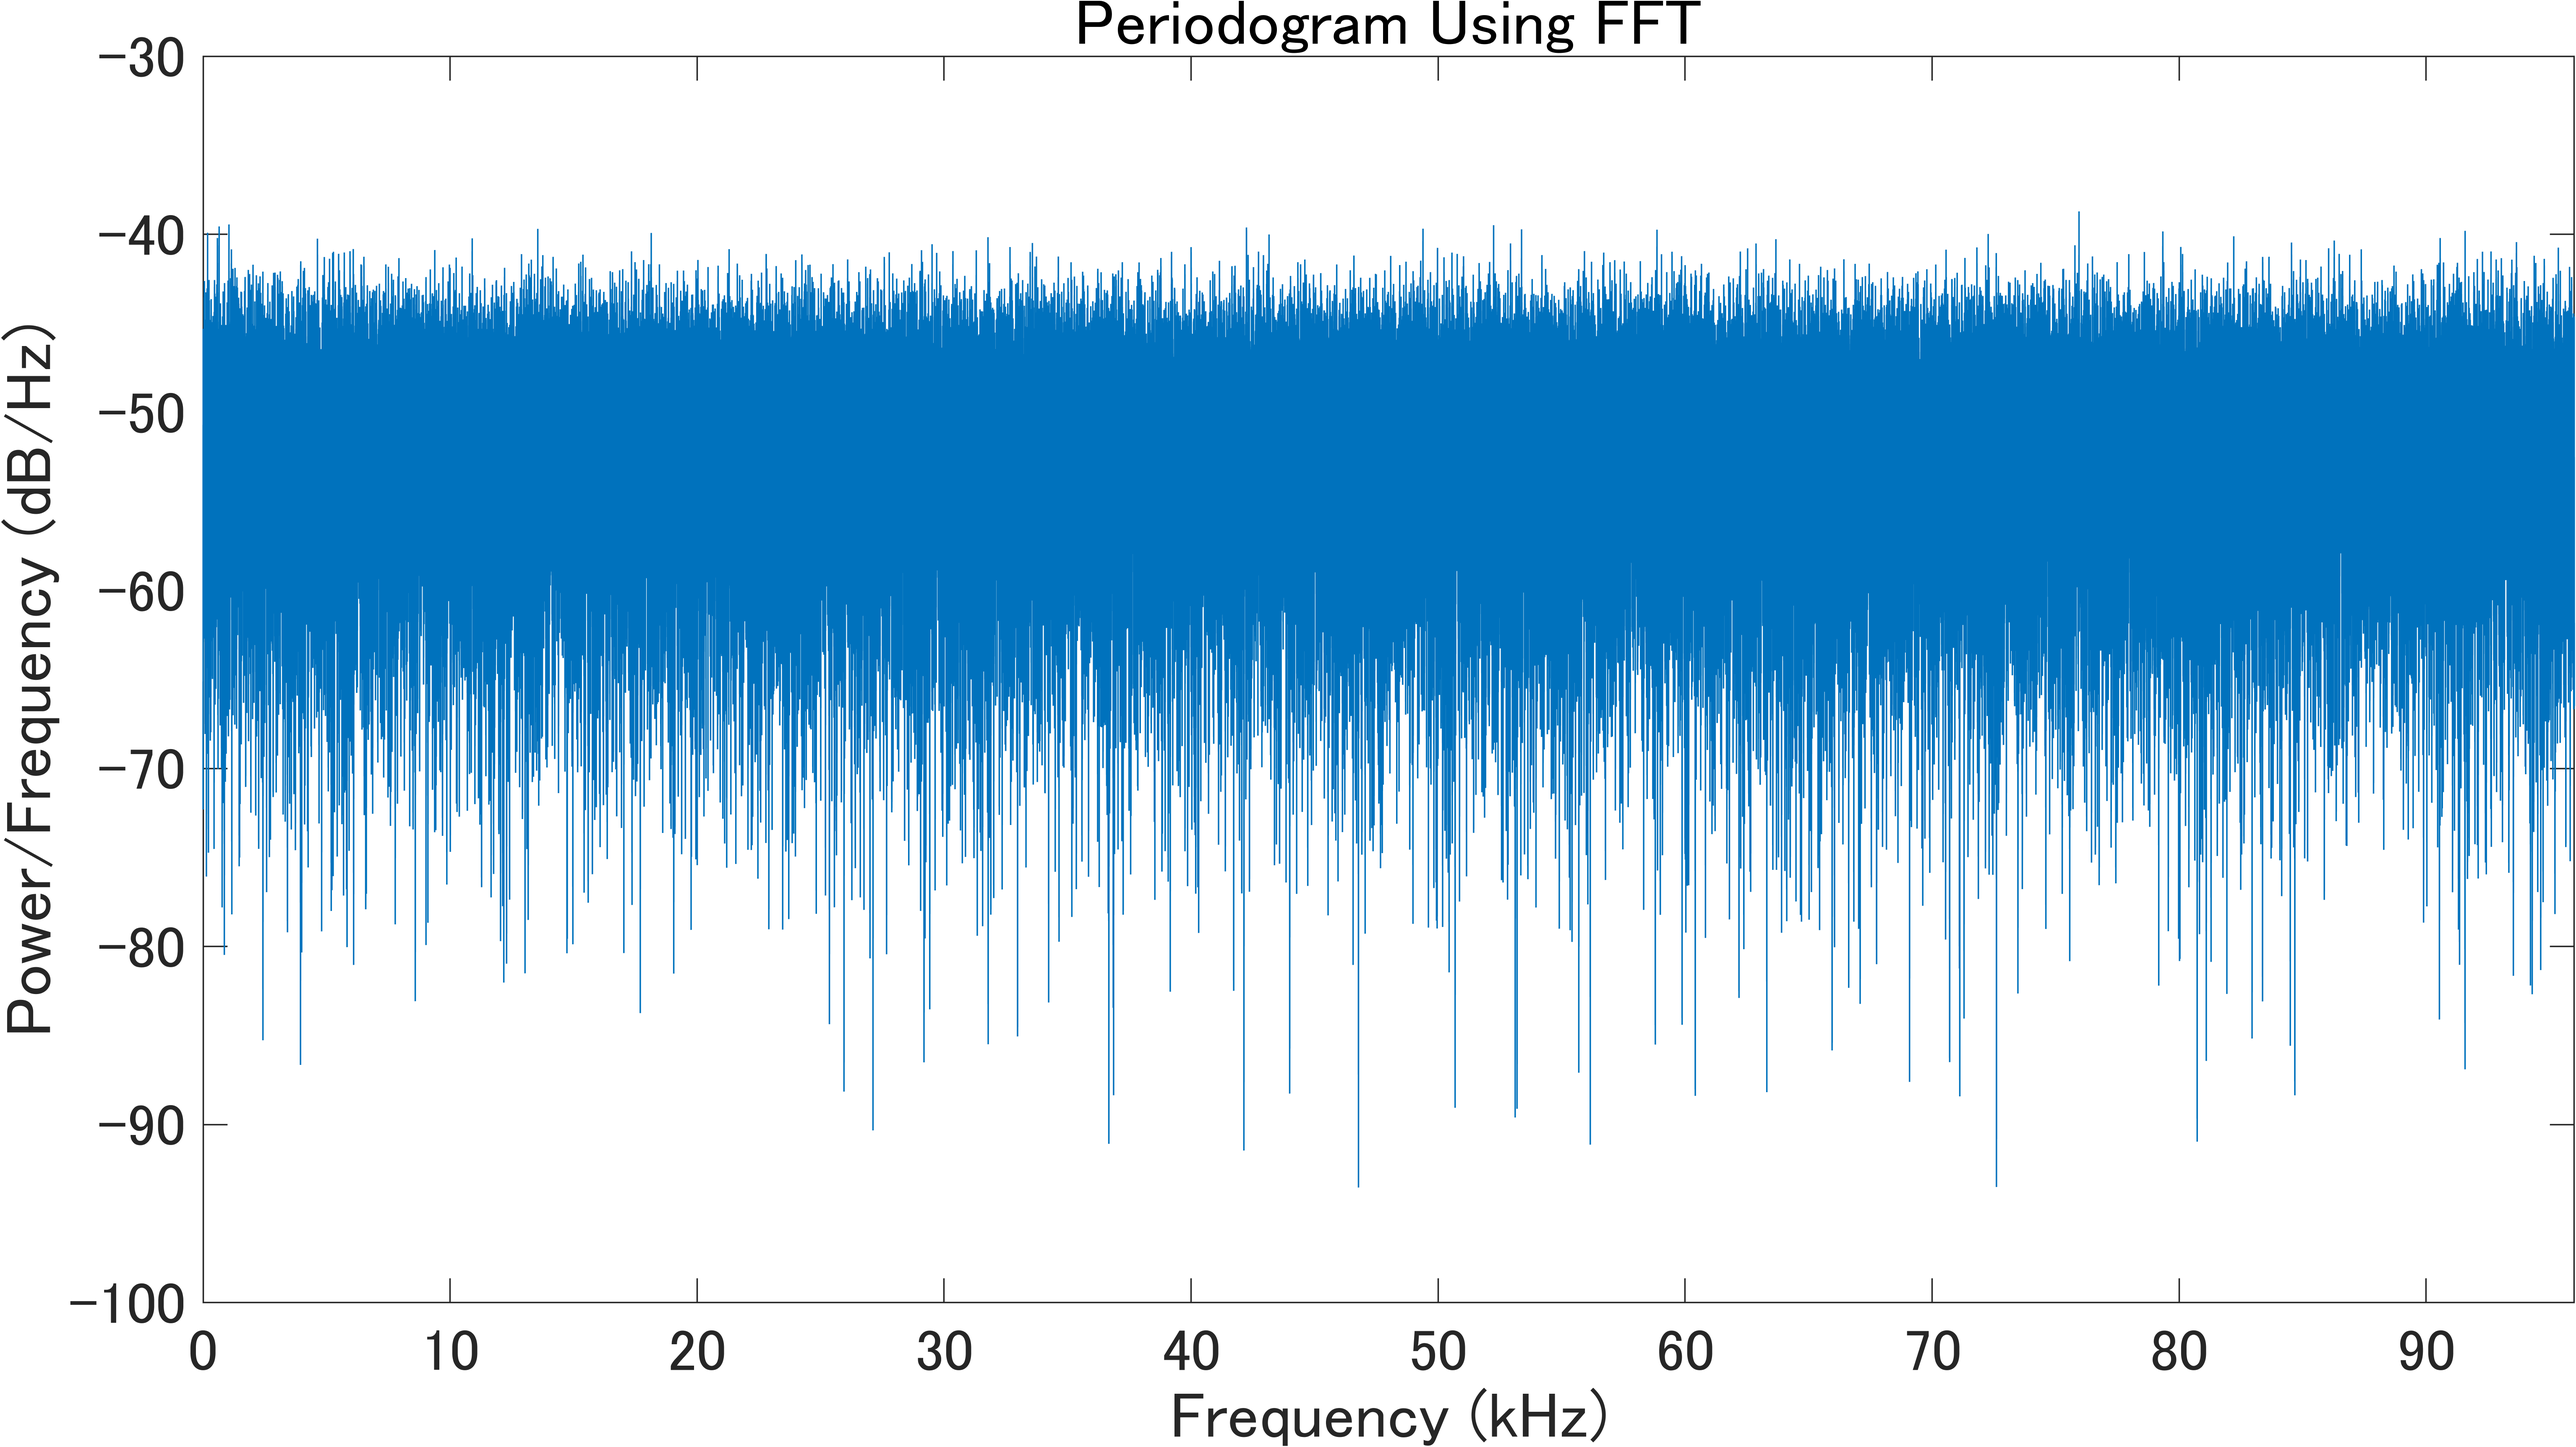
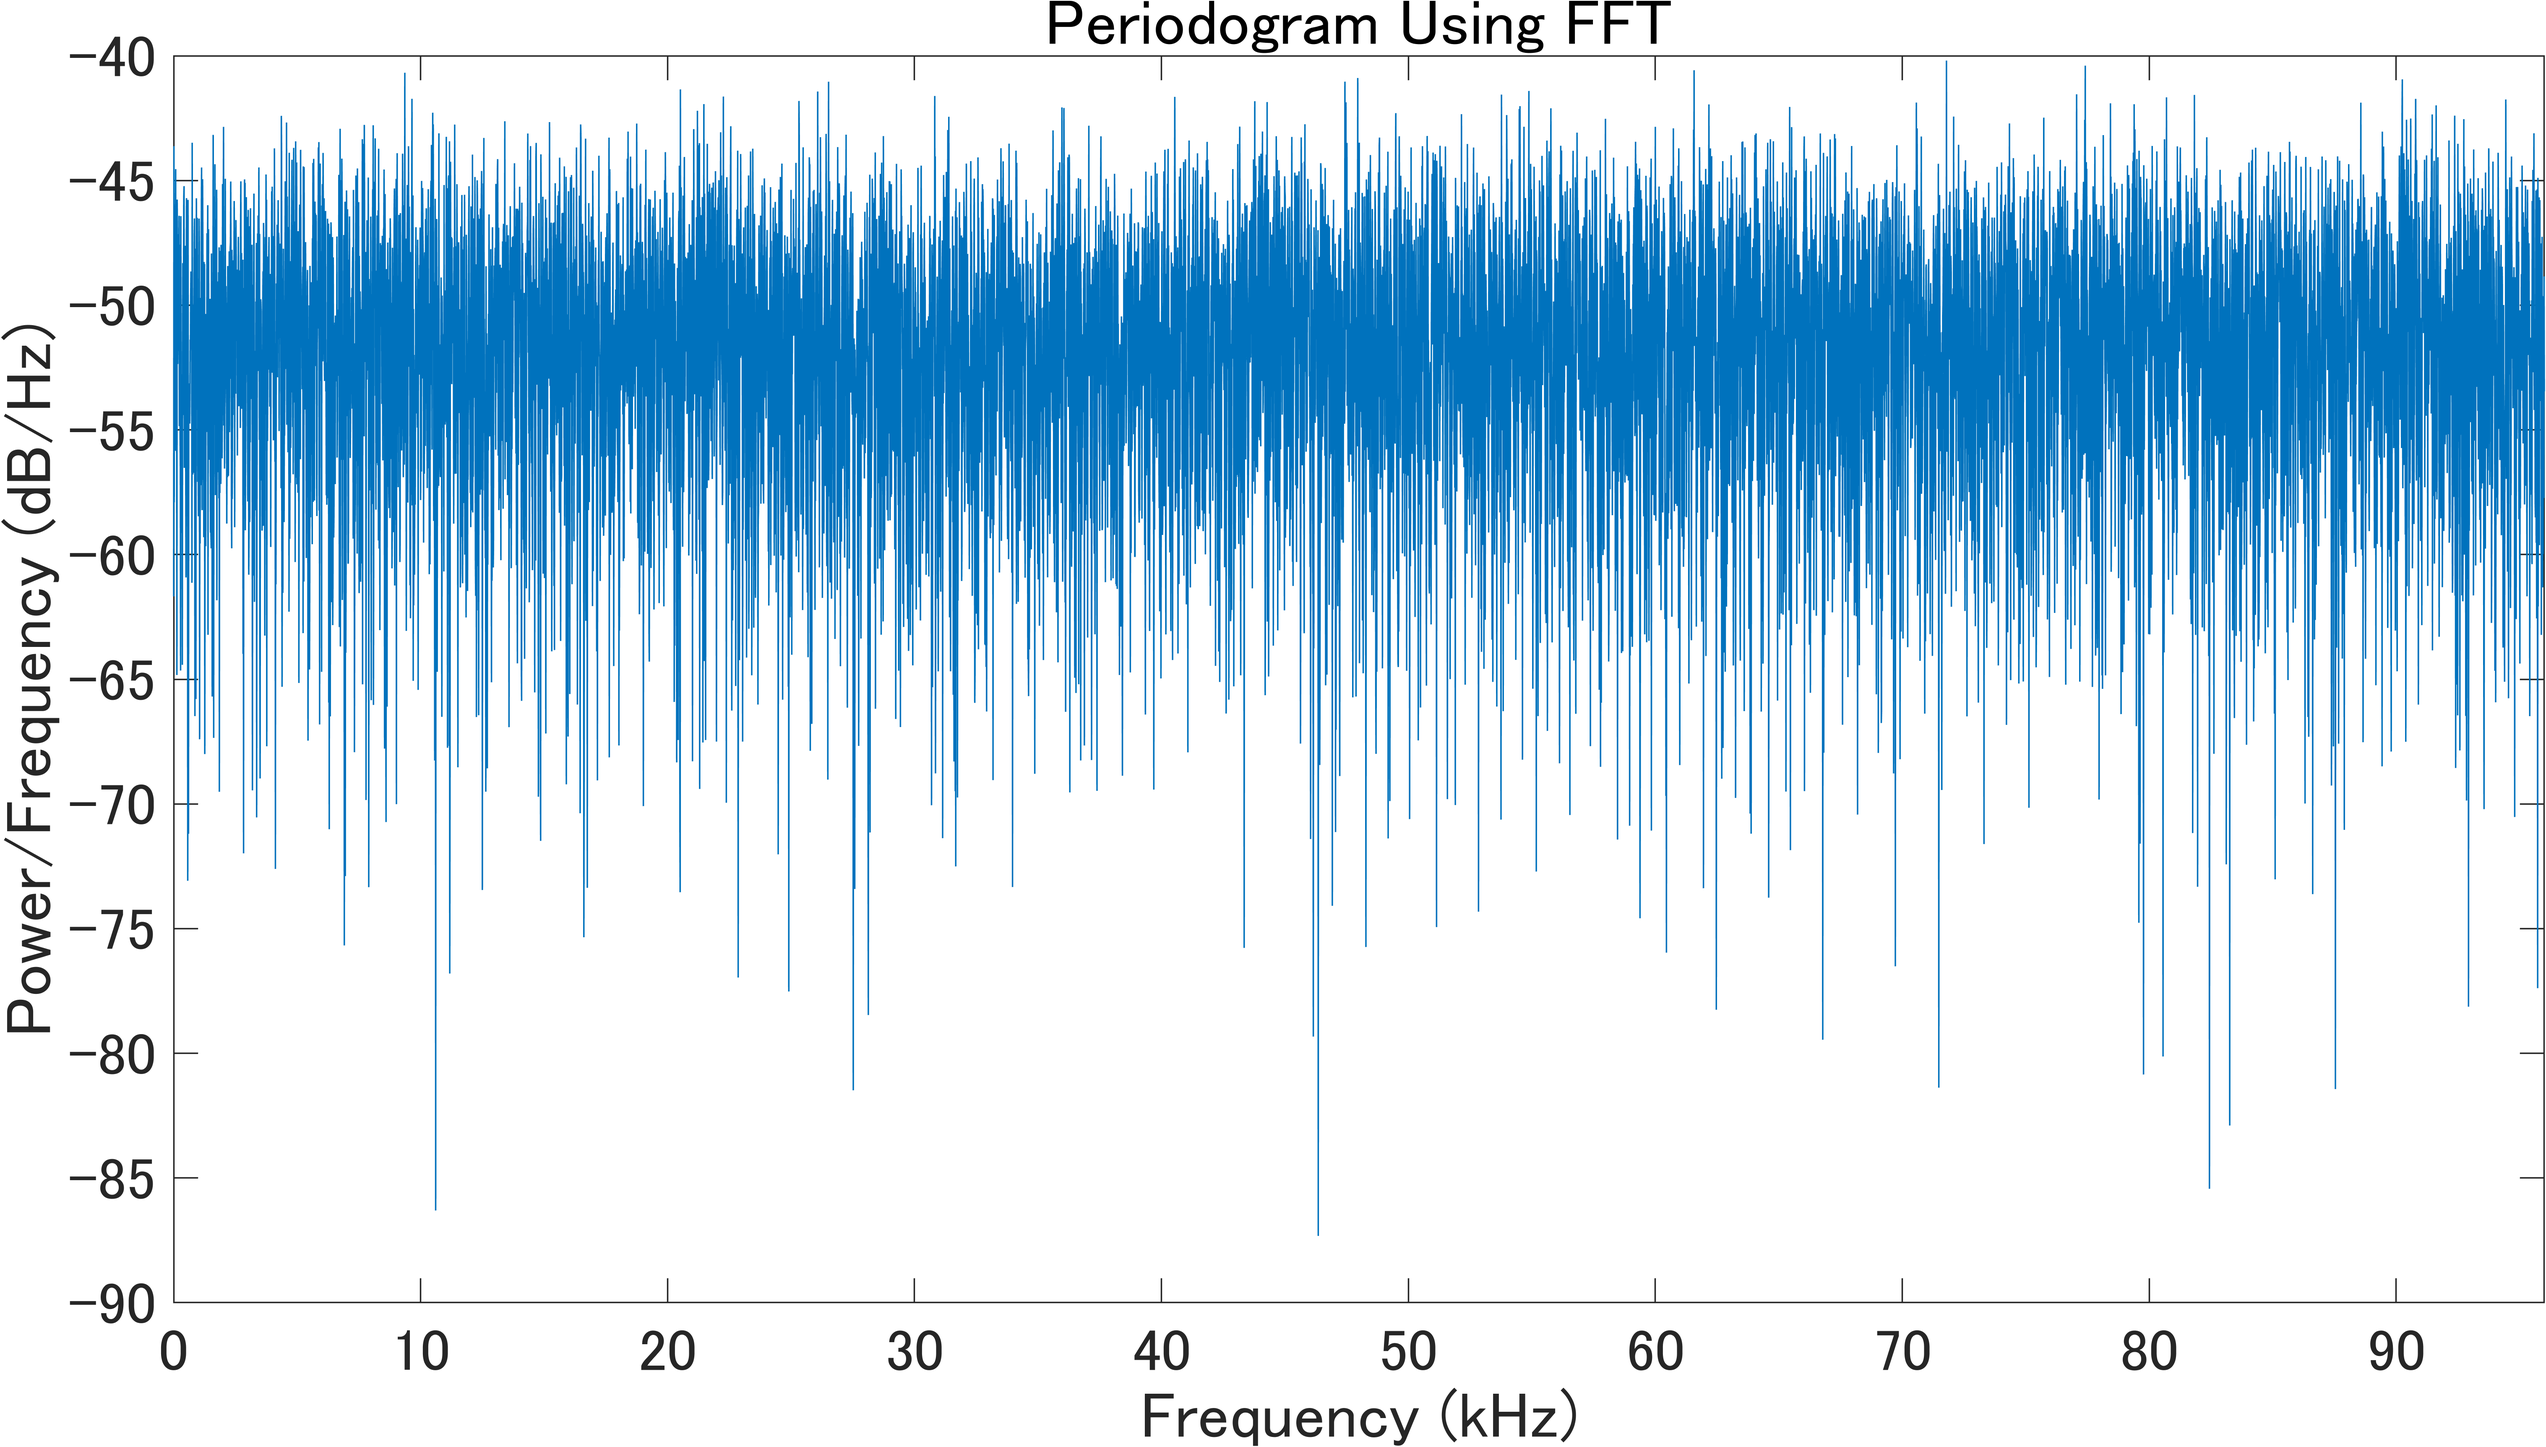
ディレクトリ名の変更を行った

diff --git a/2021/power_spectral_density.m b/2021/power_spectral_density.m
@@ -1,12 +1,14 @@
 %% 一つ目の白色ガウスノイズの定数定義
+deltaF_1 = 10;
 fs_1 = 192e3;
-T_1 = 1;
-N_1 = fs_1 * T_1;
+N_1 = fs_1 / deltaF_1;
+T_1 = N_1 / fs_1;
 
 %% 二つ目の白色ガウスノイズの定数定義
+deltaF_2 = 10;
 fs_2 = 192e3 / 2;
-T_2 = 1;
-N_2 = fs_2 * T_2;
+N_2 = fs_2 / deltaF_2;
+T_2 = N_2 / fs_2;
 
 %% ガウスノイズの作成 パワーが約 1 ワット (0 dBW)
 y1_wgn = wgn( N_1 , 1 , 0 );
@@ -126,14 +128,17 @@ fprintf('var = %f , power = %f[W] \n',var(y1_wgn) ,sum( psdx_1 ) );
 fprintf('var = %f , power = %f[W] \n',var(y2_wgn) ,sum( psdx_2 ) );
 
 %% 一つ目の白色ガウスノイズの定数定義
+deltaF_1 = 30;
 fs_1 = 192e3;
-T_1 = 1;
-N_1 = fs_1 * T_1;
+N_1 = fs_1 / deltaF_1;
+T_1 = N_1 / fs_1;
 
 %% 二つ目の白色ガウスノイズの定数定義
-fs_2 = 192e3 / 3;
-T_2 = 1;
-N_2 = fs_2 * T_2;
+deltaF_2 = 30;
+fs_2 = 192e3 / 5;
+N_2 = fs_2 / deltaF_2;
+T_2 = N_2 / fs_2;
+
 
 %% ガウスノイズの作成 パワーが約 100ワット (20 dBW)
 y1_wgn = wgn( N_1 , 1 , 20 );
